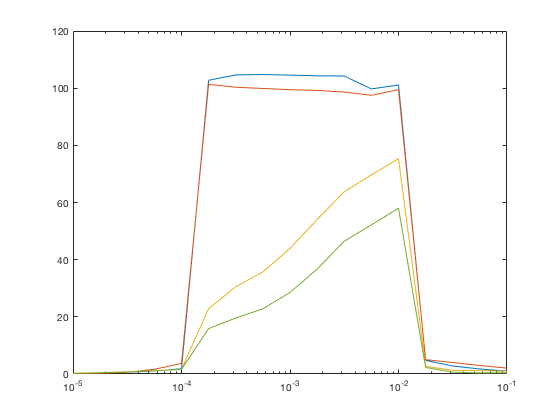
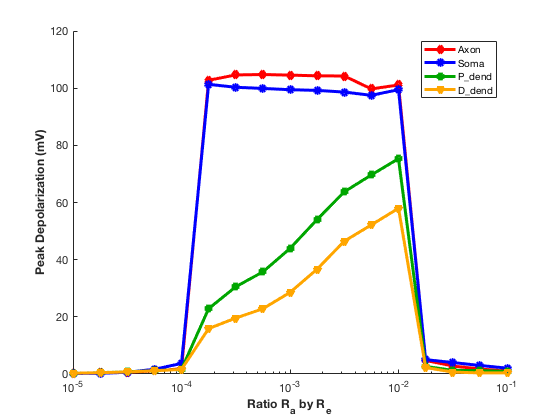
An update from Shailesh Appukuttan provided the original matlab plotting program

diff --git a/readme.html b/readme.html
@@ -15,16 +15,10 @@ nrngui init.hoc
 Click the RunAll button.  After a minute the simulation completes
 and a figure similar to figure 15 in the paper is displayed:<p/>
 <img src="./nrnscreenshot.png" alt="nrn screenshot" width="550">
-<p/>Also a file called PeakDepol.dat will be created which you can graph with your favorite graphing program.  For example in matlab you can type an instruction on the unix command line that will make a file without the header information:<p/>
-tail -17 PeakDepol.dat >a.dat
-<p/>And then start matlab and type a few lines to create graph like figure 15 in the paper:<p/>
-load a.dat<br/>
-figure<br/>
-for i=2:6<br/>
-semilogx(a(:,1),a(:,i))<br/>
-hold on<br/>
-end<br/>
-<p/>
+<p/>Also a file called PeakDepol.dat will be created which you can graph with your favorite graphing program.  The matlab program included in this archive:<br/>
+plotDepolarization.m<br/>
+was used to make the publication figure 15.  It requires a program fixPSlinestyle.m from the matlab file exchange to re-write an output fig.eps file however will generate a figure onscreen without it.
 The graph generated should look like this:<p>
 <img src="./screenshot.png" alt="screenshot">
+<p/> 20180605 S Appukuttan contributed the matlab plotting program plotDepolarization.m
 </html>

diff --git a/plotDepolarization.m b/plotDepolarization.m
@@ -1,0 +1,44 @@
+clc;
+clear;
+
+% -----------------------------------------------
+file = importdata('PeakDepol.dat', '\t', 2);
+ratio = file.data(:,1);
+axon = file.data(:,2);
+soma = file.data(:,3);
+pdend = file.data(:,4);
+ddend1 = file.data(:,5);
+ddend2 = file.data(:,6);
+clear file;
+
+figure;
+h1 = semilogx(ratio, axon, '-d', 'color', [1 0 0], 'LineWidth',3);
+hold on;
+h2 = semilogx(ratio, soma, '-o', 'color', [0 0 1], 'LineWidth',3);
+h3 = semilogx(ratio, pdend, '-s', 'color', [0 0.65 0], 'LineWidth',3);
+h4 = semilogx(ratio, ddend1, '-v', 'color', [1 0.65 0], 'LineWidth',3);
+
+%xlim([0 5]);
+%ylim([0 10]);
+
+xlabel('Ratio R_a by R_e','FontName','Helvetica','FontSize',11,'FontWeight','bold');
+ylabel('Peak Depolarization (mV)','FontName','Helvetica','FontSize',11,'FontWeight','bold');
+
+box off;
+set(gcf,'color','w');
+set(gca,'FontName','Helvetica','FontSize',11);
+
+legend_text = {'Axon', 'Soma', 'P\_dend', 'D\_dend'};
+legend([h1 h2 h3 h4], legend_text);
+
+
+% Better quality output ------------------
+set(gcf,'color','w');
+set(gca,'FontName','Helvetica','FontSize',11);
+
+set(gcf, 'PaperPositionMode', 'auto');
+print -depsc2 fig.eps
+
+fixPSlinestyle('fig.eps', 'fig_fixed.eps');
+% close;
+% ----------------------------------------
